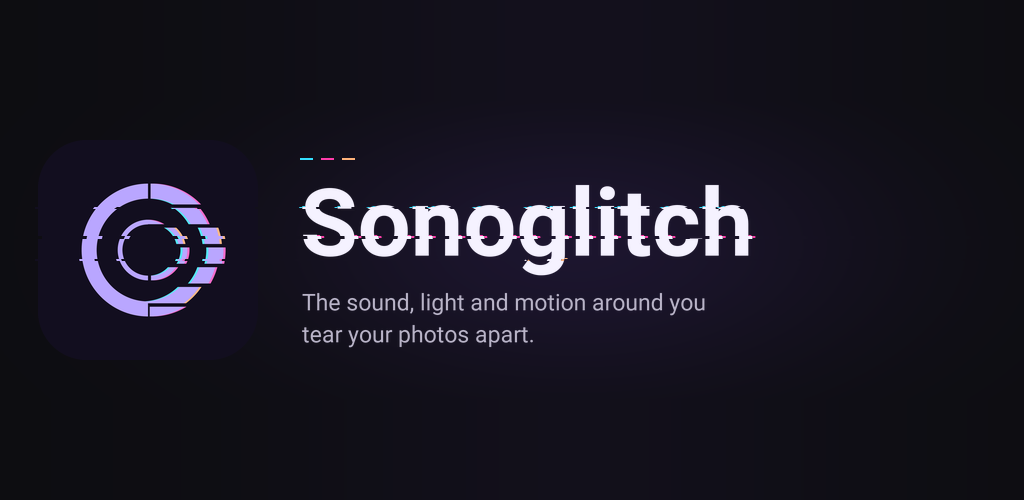
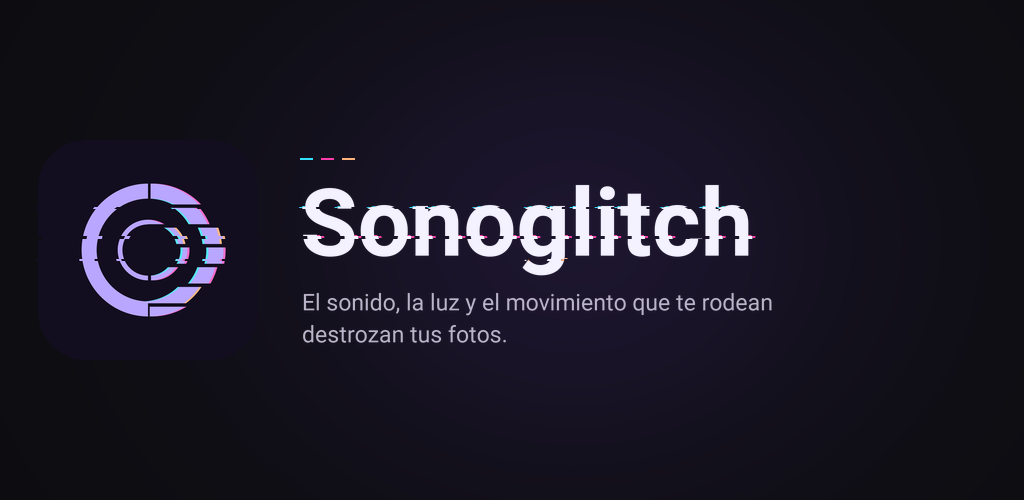
Release docs-2026-11-03

Changed region(s): [[0.2812, 0.57, 0.75, 0.63], [0.2812, 0.66, 0.5312, 0.69]]

diff --git a/web/TEXT-SOURCES.md b/web/TEXT-SOURCES.md
@@ -24,7 +24,7 @@ Paths are relative to the repository root.
 | Key | Claim | Source |
 |---|---|---|
 | `download_intro` | Android 10 (API 29)+; iOS not released; early alpha; only test builds; compatibility, performance and image quality still need testing | `README.md:33-36` |
-| downloads | APK alpha on GitHub releases; Google Play and App Store "Coming soon" with no link | `web/site.toml`; `README.md:26-35` |
+| downloads | APK alpha on GitHub releases; Google Play closed test (opt-in link); App Store "Coming soon" with no link | `web/site.toml`; `README.md` (Download) |
 | `ios_text` | The iPhone version will come from the same code but is not ready for release | `AGENTS.md:3`; `docs/IOS_STATUS.md:3` |
 | `apk_note` | Each test build is an APK with its own `.sha256` file to check before installing | `README.md:42-43` |
 
@@ -72,8 +72,9 @@ Alts and captions describe what each PNG shows (all eight were opened, en and es
 | FAQ 1 | Free, no ads, no purchases; Apache-2.0; the GitHub build has an optional Ko-fi link in Settings | `README.md:14,21,114-116,120`; `docs/SPEC.es.md:4`; `politica-privacidad.en.md:33`; `lib/features/settings/settings_screen.dart:391` |
 | FAQ 2 | No accounts, works offline, no INTERNET permission in release builds | `README.md:21`; `politica-privacidad.en.md:21-22` |
 | FAQ 4 | Android 10 (API 29)+; early alpha; testing still needed | `README.md:33-36` |
-| FAQ 5 | Google Play and F-Droid later; iOS not released; only alpha test builds on GitHub | `README.md:33-35` |
-| FAQ 6 | Install steps, `.sha256` check, unknown apps, Settings > About, debug-key prereleases | `README.md:41-49`; labels `app_en.arb:287,343` (es `Ajustes > Acerca de`, `app_es.arb:116,130`; `README.es.md:45`) |
+| FAQ 5 | Google Play closed test open to anyone; F-Droid later; iOS not released | `README.md` (Download) |
+| FAQ 6 | Join the Google Play test: sonoglitch-testers group, opt-in link, 14 days; Play build and GitHub APK signed differently | `README.md` (Join the beta on Google Play); Play Console testers tab |
+| FAQ 7 | Install steps, `.sha256` check, unknown apps, Settings > About, debug-key prereleases | `README.md:41-49`; labels `app_en.arb:287,343` (es `Ajustes > Acerca de`, `app_es.arb:116,130`; `README.es.md:45`) |
 | `issue_link` | Issues can be opened in the project repository | `politica-privacidad.en.md:41`; `README.md:111` |
 | `licence_text` | Apache-2.0 | `README.md:120`; `LICENSE` |
 | `privacy_date` | 2026-10-27 | `politica-privacidad.en.md:3`; es `politica-privacidad.md:3` |

diff --git a/docs/RELEASING.md b/docs/RELEASING.md
@@ -72,10 +72,15 @@ formato y la siguiente ya sigue esta tabla.
 | 29-oct-2026 | GitHub Releases (repositorio público) | 0.2.0-alpha.2 | 22 | `2c27005` (público `eb8041e`) | `sonoglitch-0.2.0-alpha.2.apk`, Actions, clave de depuración | Publicada (prerelease); la etiqueta 0.2.0-alpha.1 del privado nunca se compiló | no archivados |
 | 31-oct-2026 | GitHub Releases (repositorio privado) | 0.2.0-alpha.3 | 23 | `9518d9b` | `sonoglitch-0.2.0-alpha.3.apk`, compilado en local (Actions del privado sin cuota), clave de subida | Publicada (prerelease) | no archivados |
 | 31-oct-2026 | GitHub Releases (repositorio público) | 0.2.0-alpha.3 | 23 | `9518d9b` (público `9ebfcc8`) | `sonoglitch-0.2.0-alpha.3.apk`, Actions, clave de subida (secretos de firma cargados en ambos repositorios) | Publicada (prerelease); misma firma que el APK del privado | no archivados |
+| 01-nov-2026 | GitHub Releases (repositorio privado) | 0.2.0-alpha.4 | 24 | `5f29da6` | `sonoglitch-0.2.0-alpha.4.apk`, compilado en local (Actions del privado sin cuota), clave de subida | Publicada (prerelease) | no archivados |
+| 01-nov-2026 | GitHub Releases (repositorio público) | 0.2.0-alpha.4 | 24 | `5f29da6` (público `f670afd`) | `sonoglitch-0.2.0-alpha.4.apk`, Actions, clave de subida | Publicada (prerelease); misma firma que el APK del privado | no archivados |
 
 Todavía no hay ninguna subida a Google Play ni a TestFlight. El AAB de la build 19 se compiló en local con la clave de
-subida (27-oct-2026, commit `de7defc`) y **no se subió**: quedó obsoleto, y la primera subida a Play usará un build
-mayor que 21.
+subida (27-oct-2026, commit `de7defc`) y **no se subió**: quedó obsoleto. El AAB de la 0.2.0-alpha.4 (build 24) se
+compiló en local el 03-nov-2026 desde `5f29da6` con `build_play_bundle.ps1 -AppVersion 0.2.0-alpha.4`, con la clave
+de subida (la misma que firma los APK de la build 24; SHA-256 del AAB `3c639458…f421e5a3`) y está pendiente de subir.
+Los símbolos nativos van dentro del AAB (`BUNDLE-METADATA/…/debugsymbols`) y el AAB se archiva fuera del repositorio;
+la fila se añade al subirlo.
 
 - La compilación de los Android de GitHub sin los cuatro secretos de firma usa la clave de depuración: sirve para
   alphas. Una versión estable los exige (véase el flujo *Release APK*).

diff --git a/README.es.md b/README.es.md
@@ -23,17 +23,31 @@ foto, elige el recorte y la composición, y guárdala en la galería o compárte
 ## Descargas
 
 <p>
+  <a href="https://play.google.com/apps/testing/es.sonoglitch.app"><img src="https://img.shields.io/badge/Google_Play-Beta-414141?logo=googleplay&amp;style=for-the-badge" alt="Beta en Google Play"></a>
   <a href="https://github.com/dferrandizmont/sonoglitch/releases"><img src="https://img.shields.io/badge/Disponible_en-GitHub-181717?logo=github&amp;style=for-the-badge" alt="Disponible en GitHub"></a>
   <!--
-  <a href="[PLAY_URL]"><img src="https://img.shields.io/badge/Google_Play-Beta-414141?logo=googleplay&amp;style=for-the-badge" alt="Disponible en Google Play"></a>
   <a href="[FDROID_URL]"><img src="https://img.shields.io/badge/F--Droid-1976D2?logo=fdroid&amp;style=for-the-badge" alt="Disponible en F-Droid"></a>
   -->
 </p>
 
-Android ya, en Android 10 (API 29) o posterior; iOS todavía no está publicado.
-La app está en una fase alfa temprana, así que solo se publican versiones de
-prueba. Google Play y F-Droid llegarán más adelante. Aún falta probar la
+Android 10 (API 29) o posterior, en prueba cerrada en Google Play y con
+versiones de prueba en GitHub; iOS todavía no está publicado. La app está en una
+fase alfa temprana. F-Droid llegará más adelante. Aún falta probar la
 compatibilidad, el rendimiento y la calidad de imagen en cada dispositivo.
+
+<details>
+<summary>Únete a la beta de Google Play</summary>
+
+1. Únete al grupo de testers: [sonoglitch-testers](https://groups.google.com/g/sonoglitch-testers). Con tu cuenta de Google, pulsa «Unirse al grupo».
+2. Acepta la prueba: [play.google.com/apps/testing/es.sonoglitch.app](https://play.google.com/apps/testing/es.sonoglitch.app).
+3. Instala la app desde Google Play. Se actualizará sola.
+
+Quédate 14 días: Google exige 12 testers durante 14 días antes de publicarla.
+La versión de Google Play y el APK de GitHub están firmados de forma distinta,
+así que desinstala uno antes de instalar el otro.
+Comentarios: sonoglitch@mainshai.com.
+
+</details>
 
 <details>
 <summary>Instala el APK desde GitHub</summary>

diff --git a/README.md b/README.md
@@ -23,17 +23,31 @@ layout, then save it to the gallery or share it.
 ## Download
 
 <p>
+  <a href="https://play.google.com/apps/testing/es.sonoglitch.app"><img src="https://img.shields.io/badge/Google_Play-Beta-414141?logo=googleplay&amp;style=for-the-badge" alt="Beta on Google Play"></a>
   <a href="https://github.com/dferrandizmont/sonoglitch/releases"><img src="https://img.shields.io/badge/Available_on-GitHub-181717?logo=github&amp;style=for-the-badge" alt="Available on GitHub"></a>
   <!--
-  <a href="[PLAY_URL]"><img src="https://img.shields.io/badge/Google_Play-Beta-414141?logo=googleplay&amp;style=for-the-badge" alt="Available on Google Play"></a>
   <a href="[FDROID_URL]"><img src="https://img.shields.io/badge/F--Droid-1976D2?logo=fdroid&amp;style=for-the-badge" alt="Available on F-Droid"></a>
   -->
 </p>
 
-Android now, on Android 10 (API 29) or newer; iOS is not released yet. The app
-is at an early alpha stage, so only test builds are published. Google Play and
+Android 10 (API 29) or newer, in closed testing on Google Play and as test
+builds on GitHub; iOS is not released yet. The app is at an early alpha stage.
 F-Droid will come later. Device compatibility, performance and image quality
 still need testing.
+
+<details>
+<summary>Join the beta on Google Play</summary>
+
+1. Join the testers group: [sonoglitch-testers](https://groups.google.com/g/sonoglitch-testers). With your Google account, tap «Join group».
+2. Accept the test: [play.google.com/apps/testing/es.sonoglitch.app](https://play.google.com/apps/testing/es.sonoglitch.app).
+3. Install the app from Google Play. It will update itself.
+
+Stay for 14 days: Google requires 12 testers for 14 days before the app can be
+published. The Play build and the GitHub APK are signed differently, so
+uninstall one before installing the other.
+Feedback: sonoglitch@mainshai.com.
+
+</details>
 
 <details>
 <summary>Install the APK from GitHub</summary>

diff --git a/CHANGELOG.md b/CHANGELOG.md
@@ -14,7 +14,6 @@ one with that format.
 ## 0.2.0-alpha.4 · 01-Nov-2026
 
 - New screenshots in the README and the store listing, taken with the real effects on photos by the developer.
-
 - In Spanish, the photo screen says "alto", "medio" and "bajo" for noise and movement (it said "alta", "media" and "baja", which only agree with light).
 - Prism, Static and Tape are much easier to recognise at high noise and movement: Prism tints the torn bands with colour, Static adds snow to them, and Tape adds worn-videotape streaks, dropout dashes, colour bleed and a skewed bottom edge, and all three show stronger colour splits, also on calm scenes such as a striped lighthouse.
 
